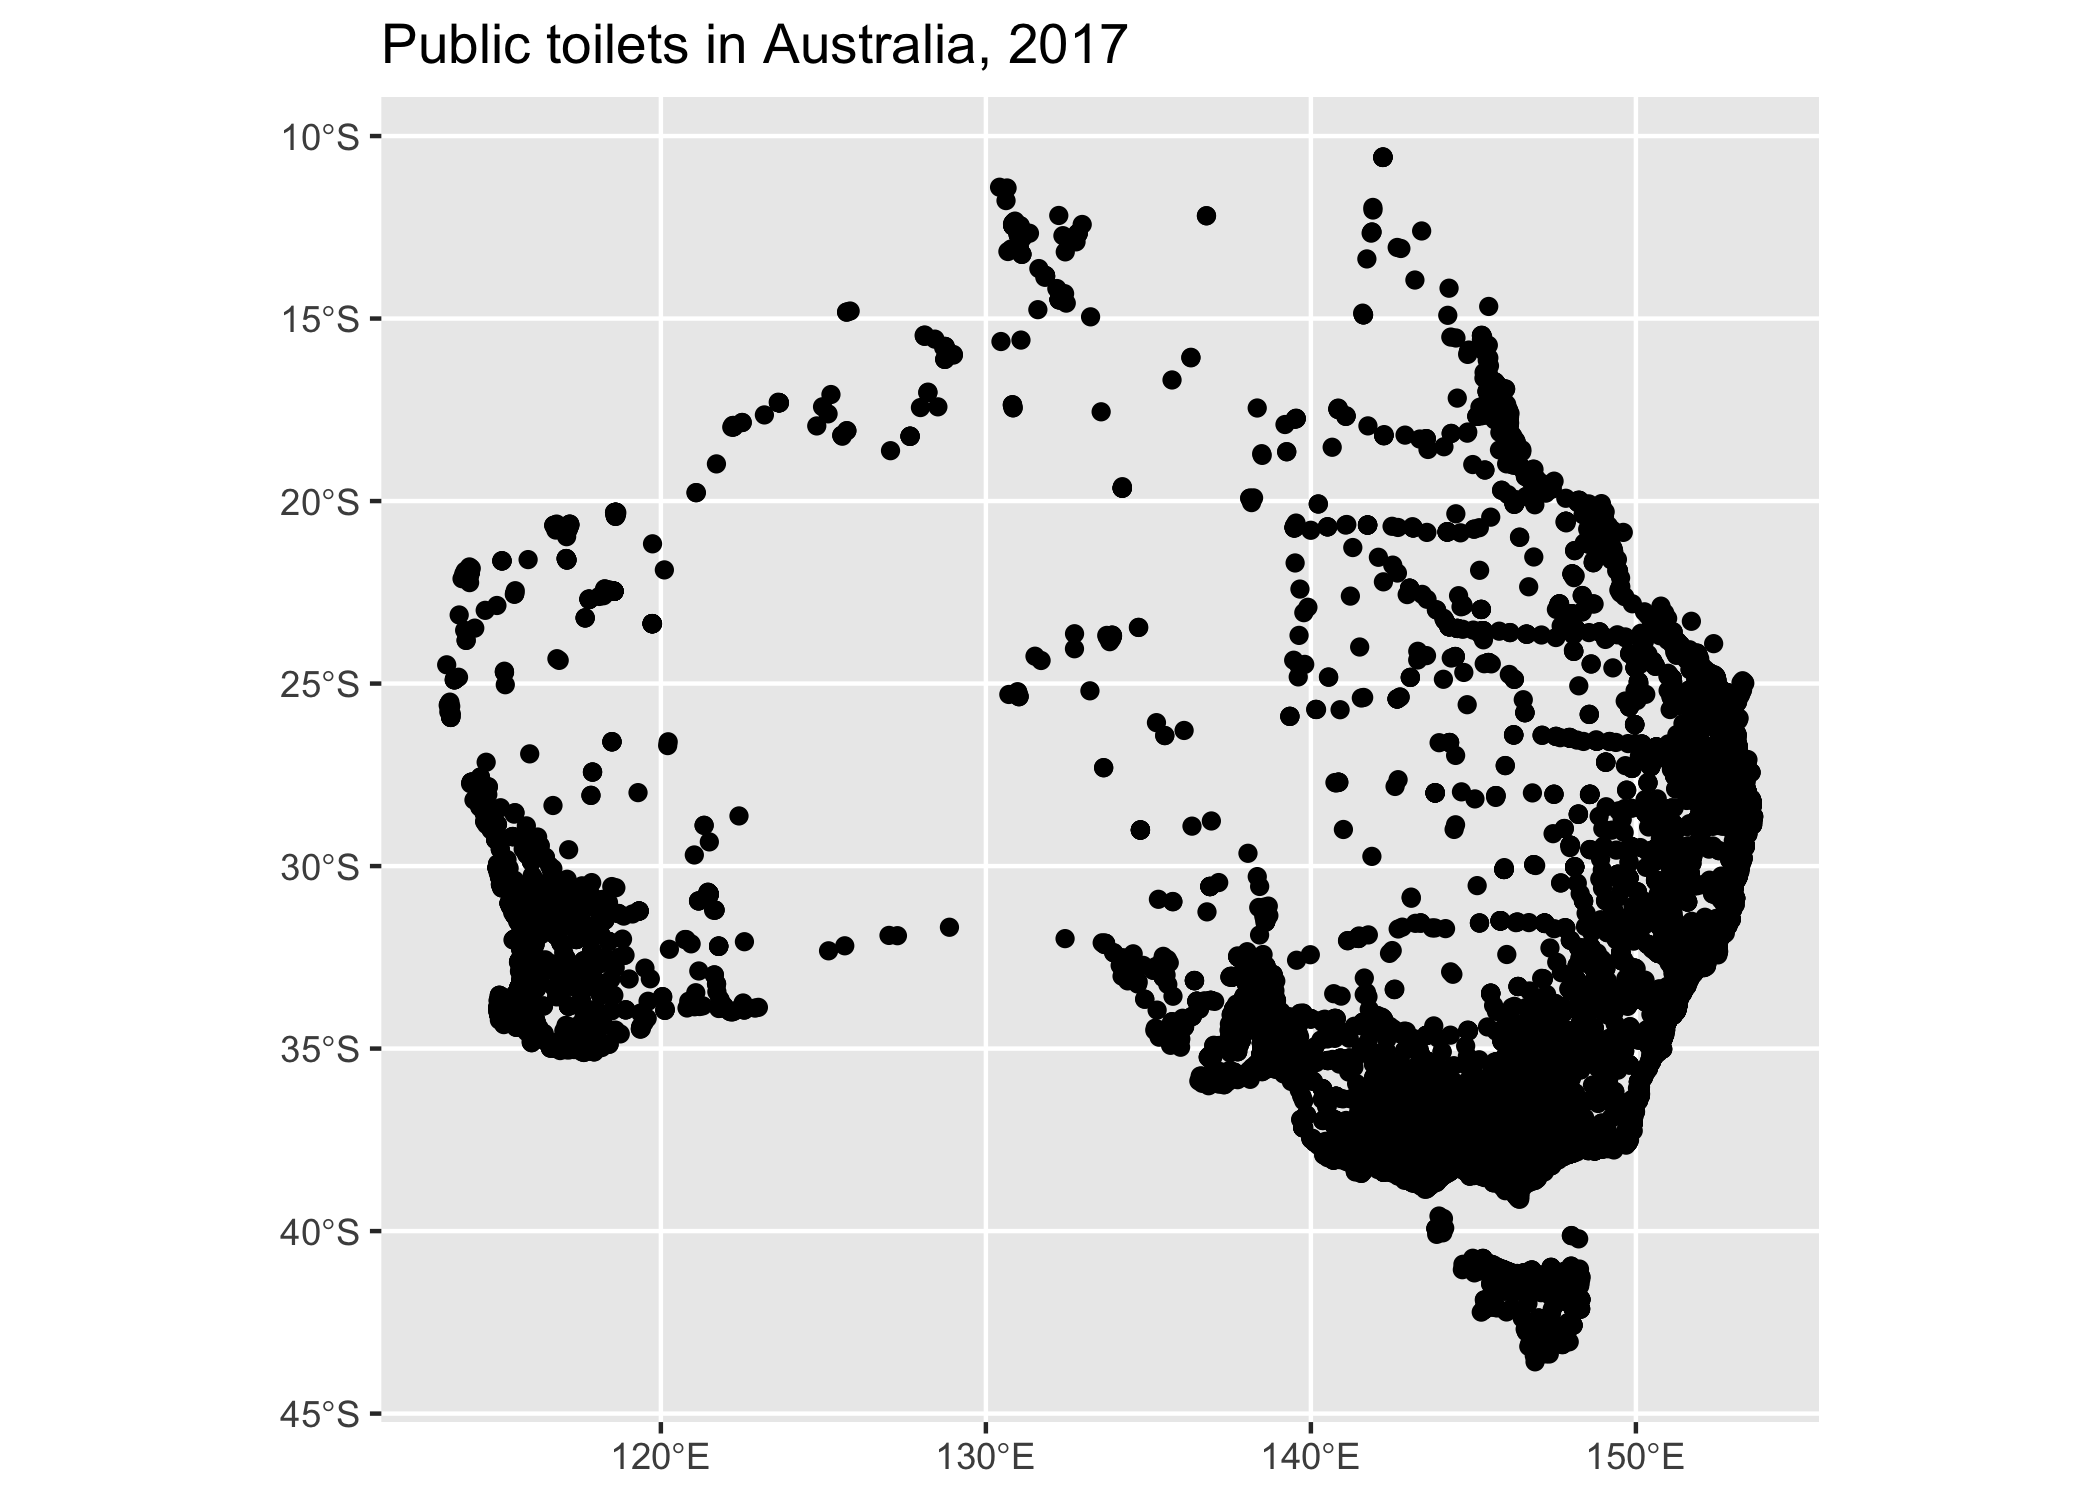
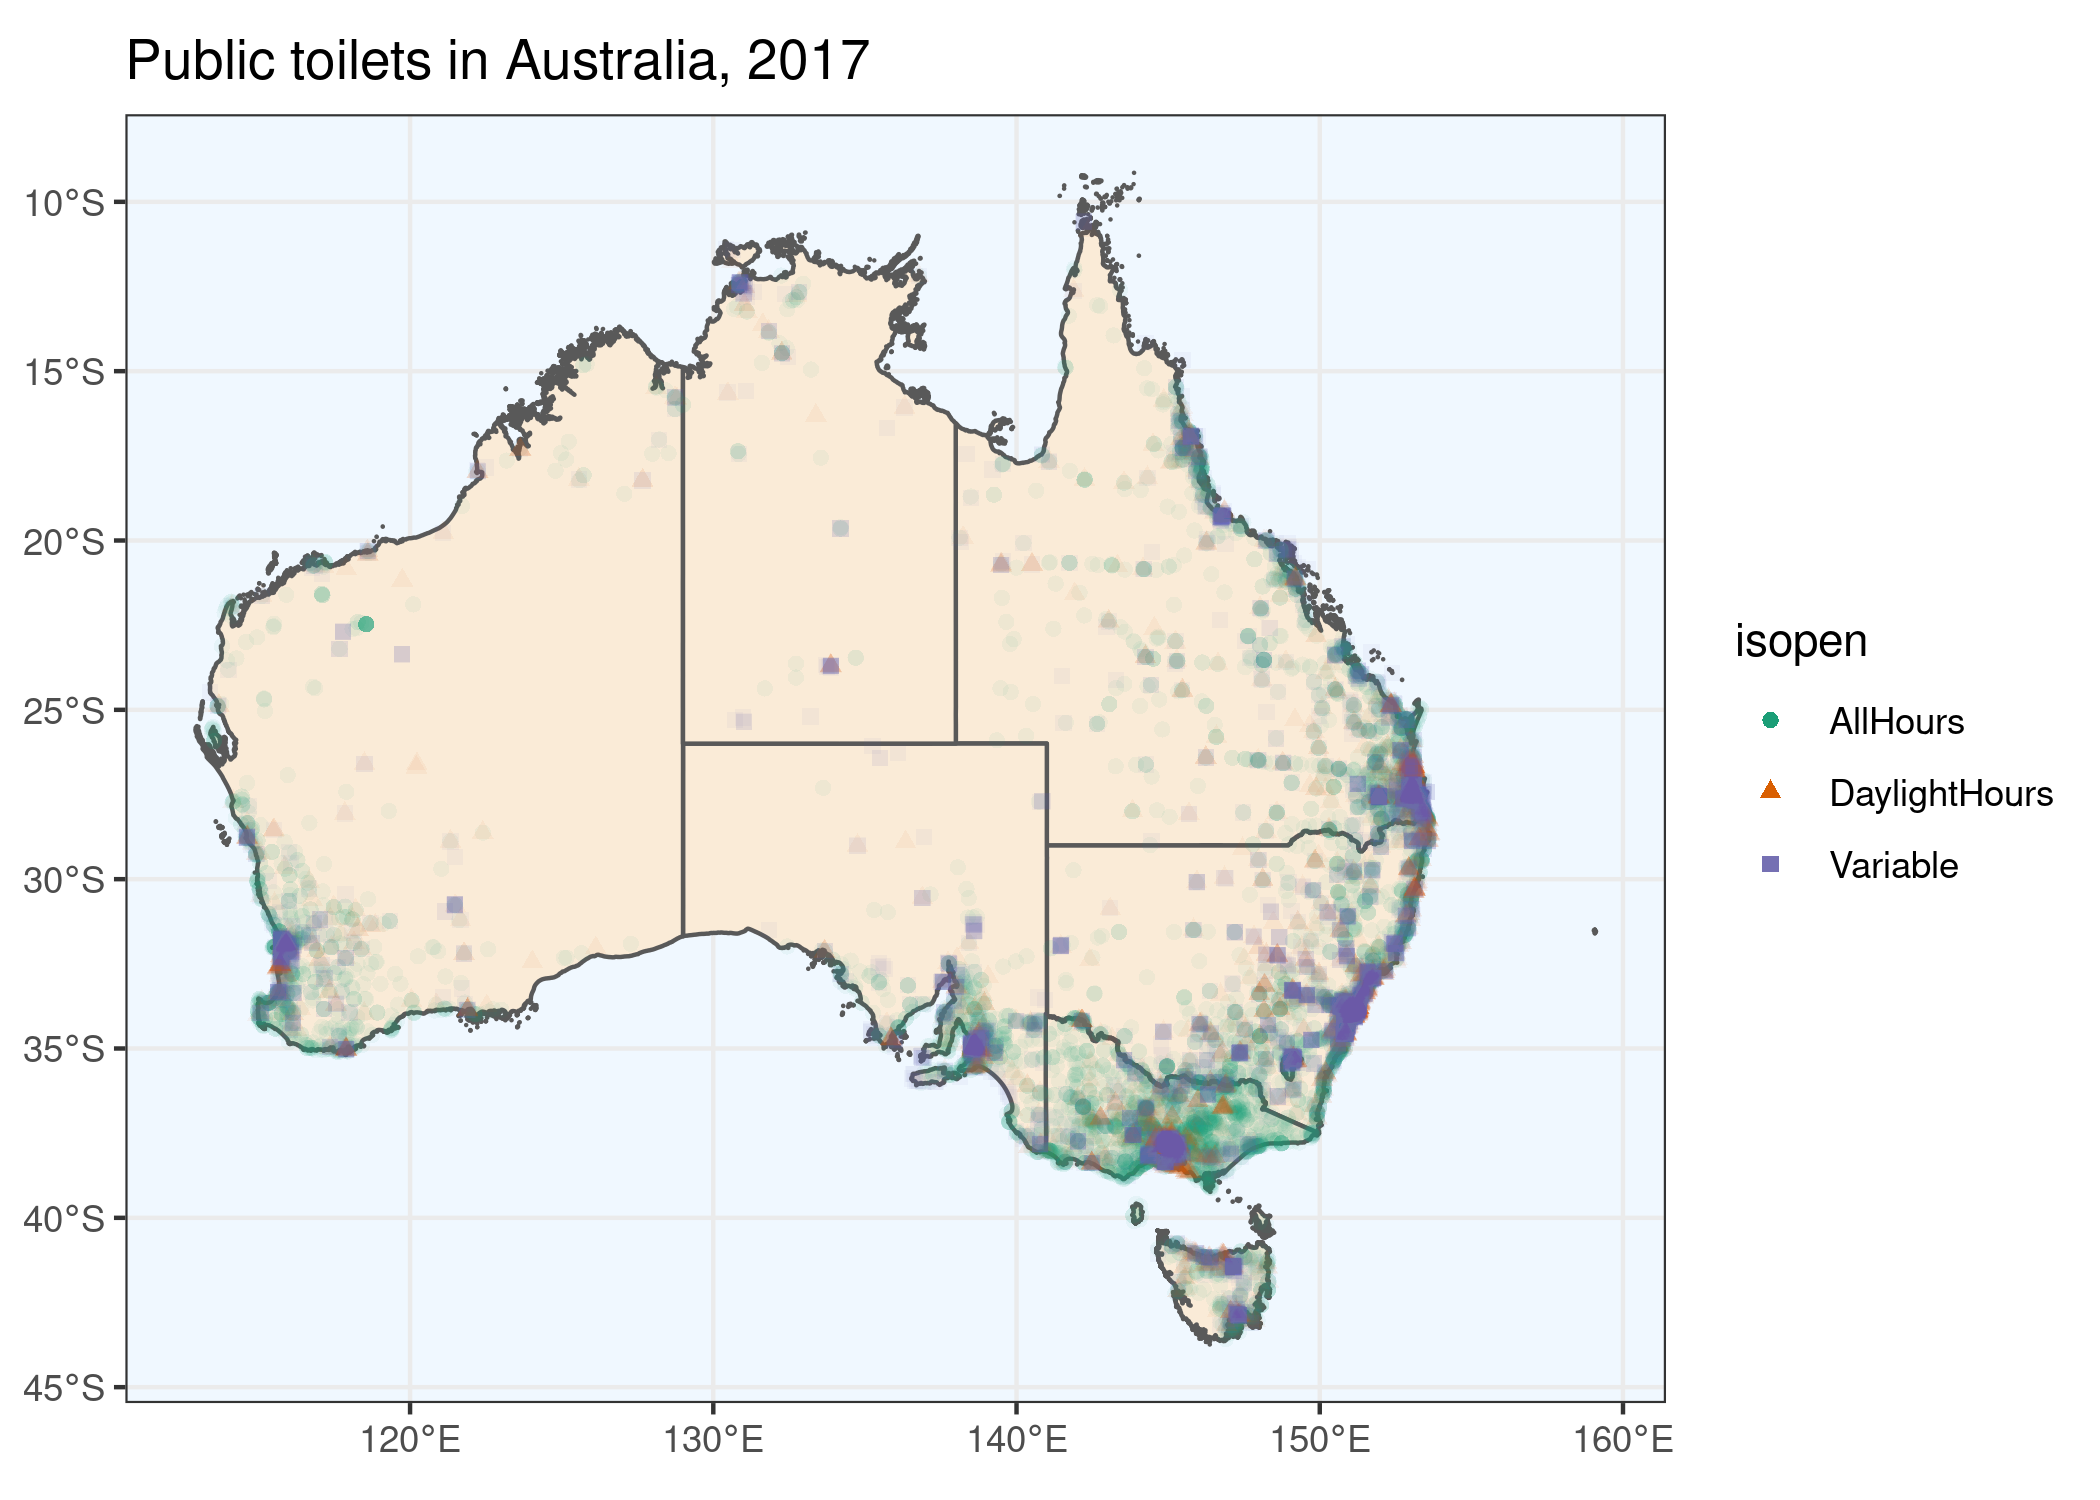
Update README

diff --git a/README.md b/README.md
@@ -84,11 +84,7 @@ Alternatively, you may use `aur_meta` to search datasets without leaving
 your R console.
 
 ``` r
-meta = aur_meta()
-#> ℹ Creating AURIN WFS Client...
-#> Loading ISO 19139 XML schemas...
-#> Loading ISO 19115 codelists...
-#> Warning in CPL_crs_from_input(x): GDAL Message 1: +init=epsg:XXXX syntax is deprecated. It might return a CRS with a non-EPSG compliant axis order.
+meta <- aur_meta()
 #> ℹ Fetching available datasets...
 # print out the first five rows
 knitr::kable(head(meta))
@@ -107,10 +103,14 @@ Use `aur_get()` to download the dataset.
 
 ``` r
 # download this public toilet dataset.
-open_api_id = "aurin:datasource-UQ_ERG-UoM_AURIN_DB_public_toilets"
-public_toilets = aur_get(open_api_id = open_api_id)
+open_api_id <- "aurin:datasource-UQ_ERG-UoM_AURIN_DB_public_toilets"
+public_toilets <- aur_get(open_api_id = open_api_id)
 #> ℹ Downloading 'aurin:datasource-UQ_ERG-UoM_AURIN_DB_public_toilets'...
 #> ✔ Finished!
+state_polygons <- aur_get(open_api_id = "aurin:datasource-AU_Govt_ABS-UoM_AURIN_DB_GeoLevel_ste_2016_aust")
+#> ℹ Downloading 'aurin:datasource-AU_Govt_ABS-UoM_AURIN_DB_GeoLevel_ste_2016_aust'...
+#> ✔ Finished!
+state_polygons <- state_polygons[state_polygons$state_code_2016 %in% 1:8, ]
 ```
 
 Let’s visualise the data using the `ggplot2` package.
@@ -119,8 +119,13 @@ Let’s visualise the data using the `ggplot2` package.
 # If you don't have the package you can install it with `install.packages("ggplot2")`.
 library(ggplot2)
 ggplot(public_toilets) +
-  geom_sf() +
-  labs(title = "Public toilets in Australia, 2017")
+  geom_sf(data = state_shp, fill = "antiquewhite") +
+  geom_sf(alpha = 0.05, aes(color = isopen, shape = isopen)) +
+  labs(title = "Public toilets in Australia, 2017") +
+  scale_color_brewer(palette = "Dark2") +
+  theme_bw() +
+  guides(colour = guide_legend(override.aes = list(alpha = 1))) +
+  theme(panel.background = element_rect(fill = "aliceblue"))
 ```
 
 <img src="man/figures/README-example-public-toilet-plot-1.png" width="100%" />
@@ -155,6 +160,6 @@ knitr::kable(meta[grepl("toilet", meta$title, ignore.case = T), ])
 Get all the datasets in parallel.
 
 ``` r
-toilet_datasets_ids = meta$aurin_open_api_id[grepl("toilet", meta$title, ignore.case = T)]
-data_lst = furrr::future_map(toilet_datasets_ids, aur_get)
+toilet_datasets_ids <- meta$aurin_open_api_id[grepl("toilet", meta$title, ignore.case = T)]
+data_lst <- furrr::future_map(toilet_datasets_ids, aur_get)
 ```
